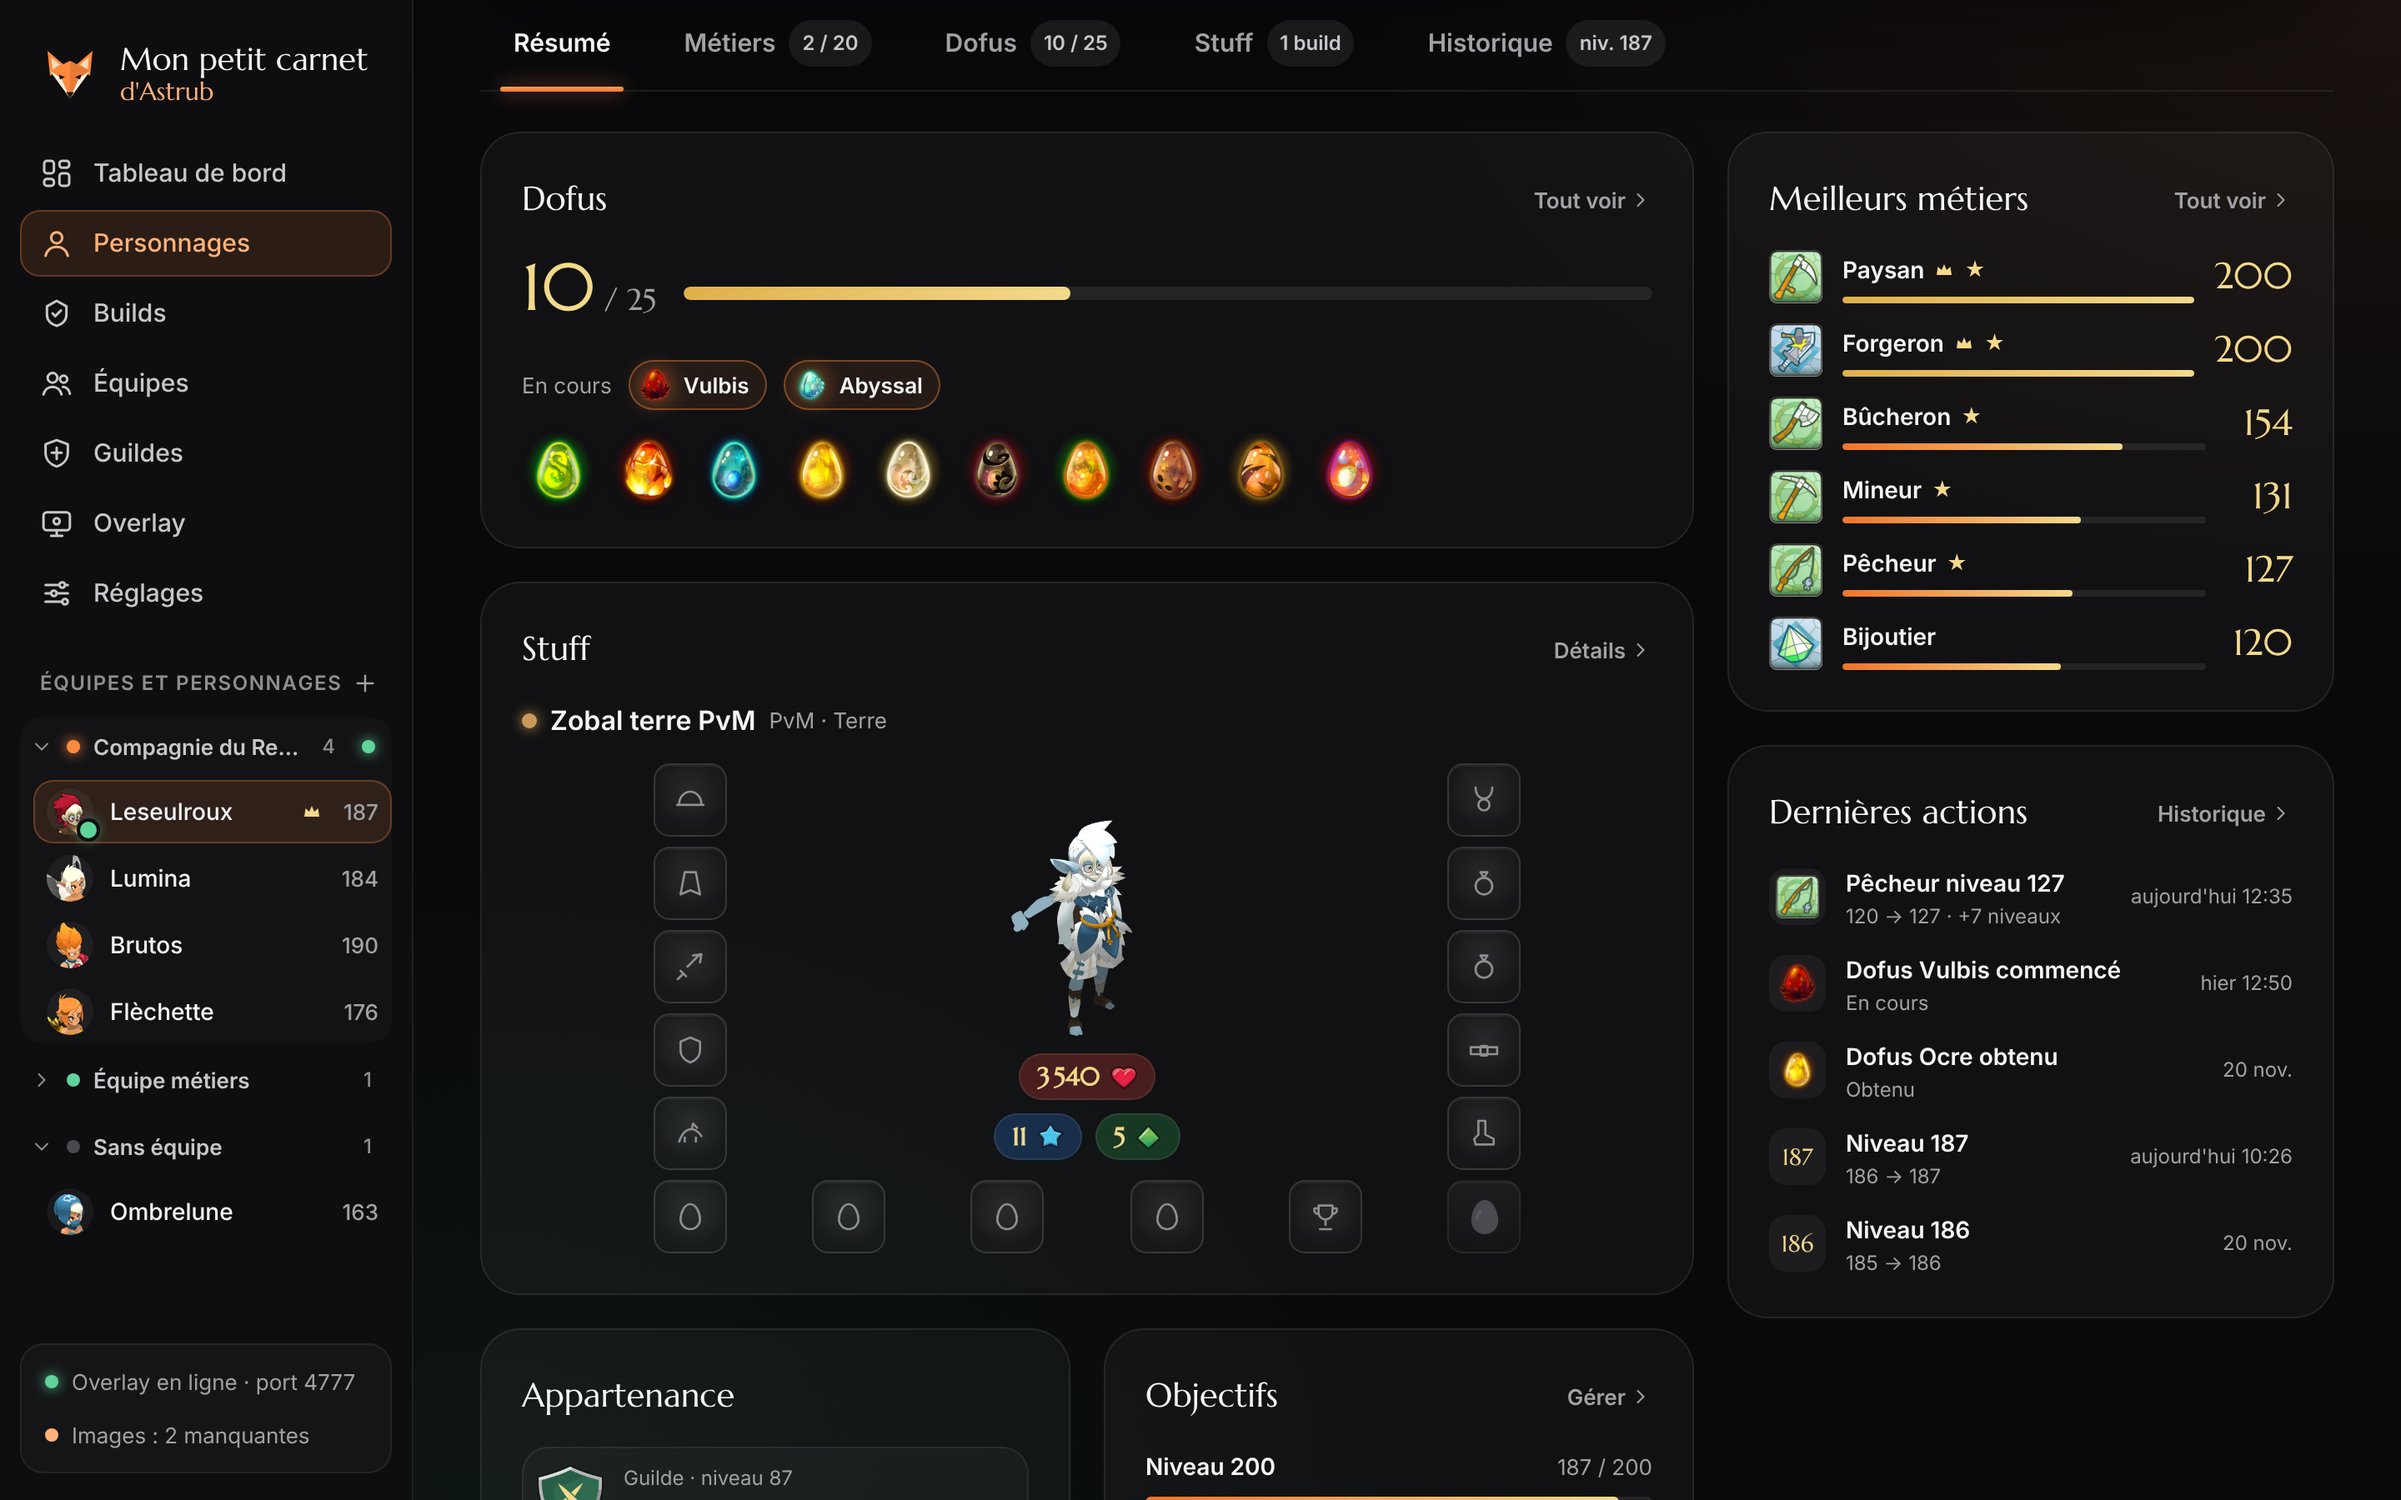
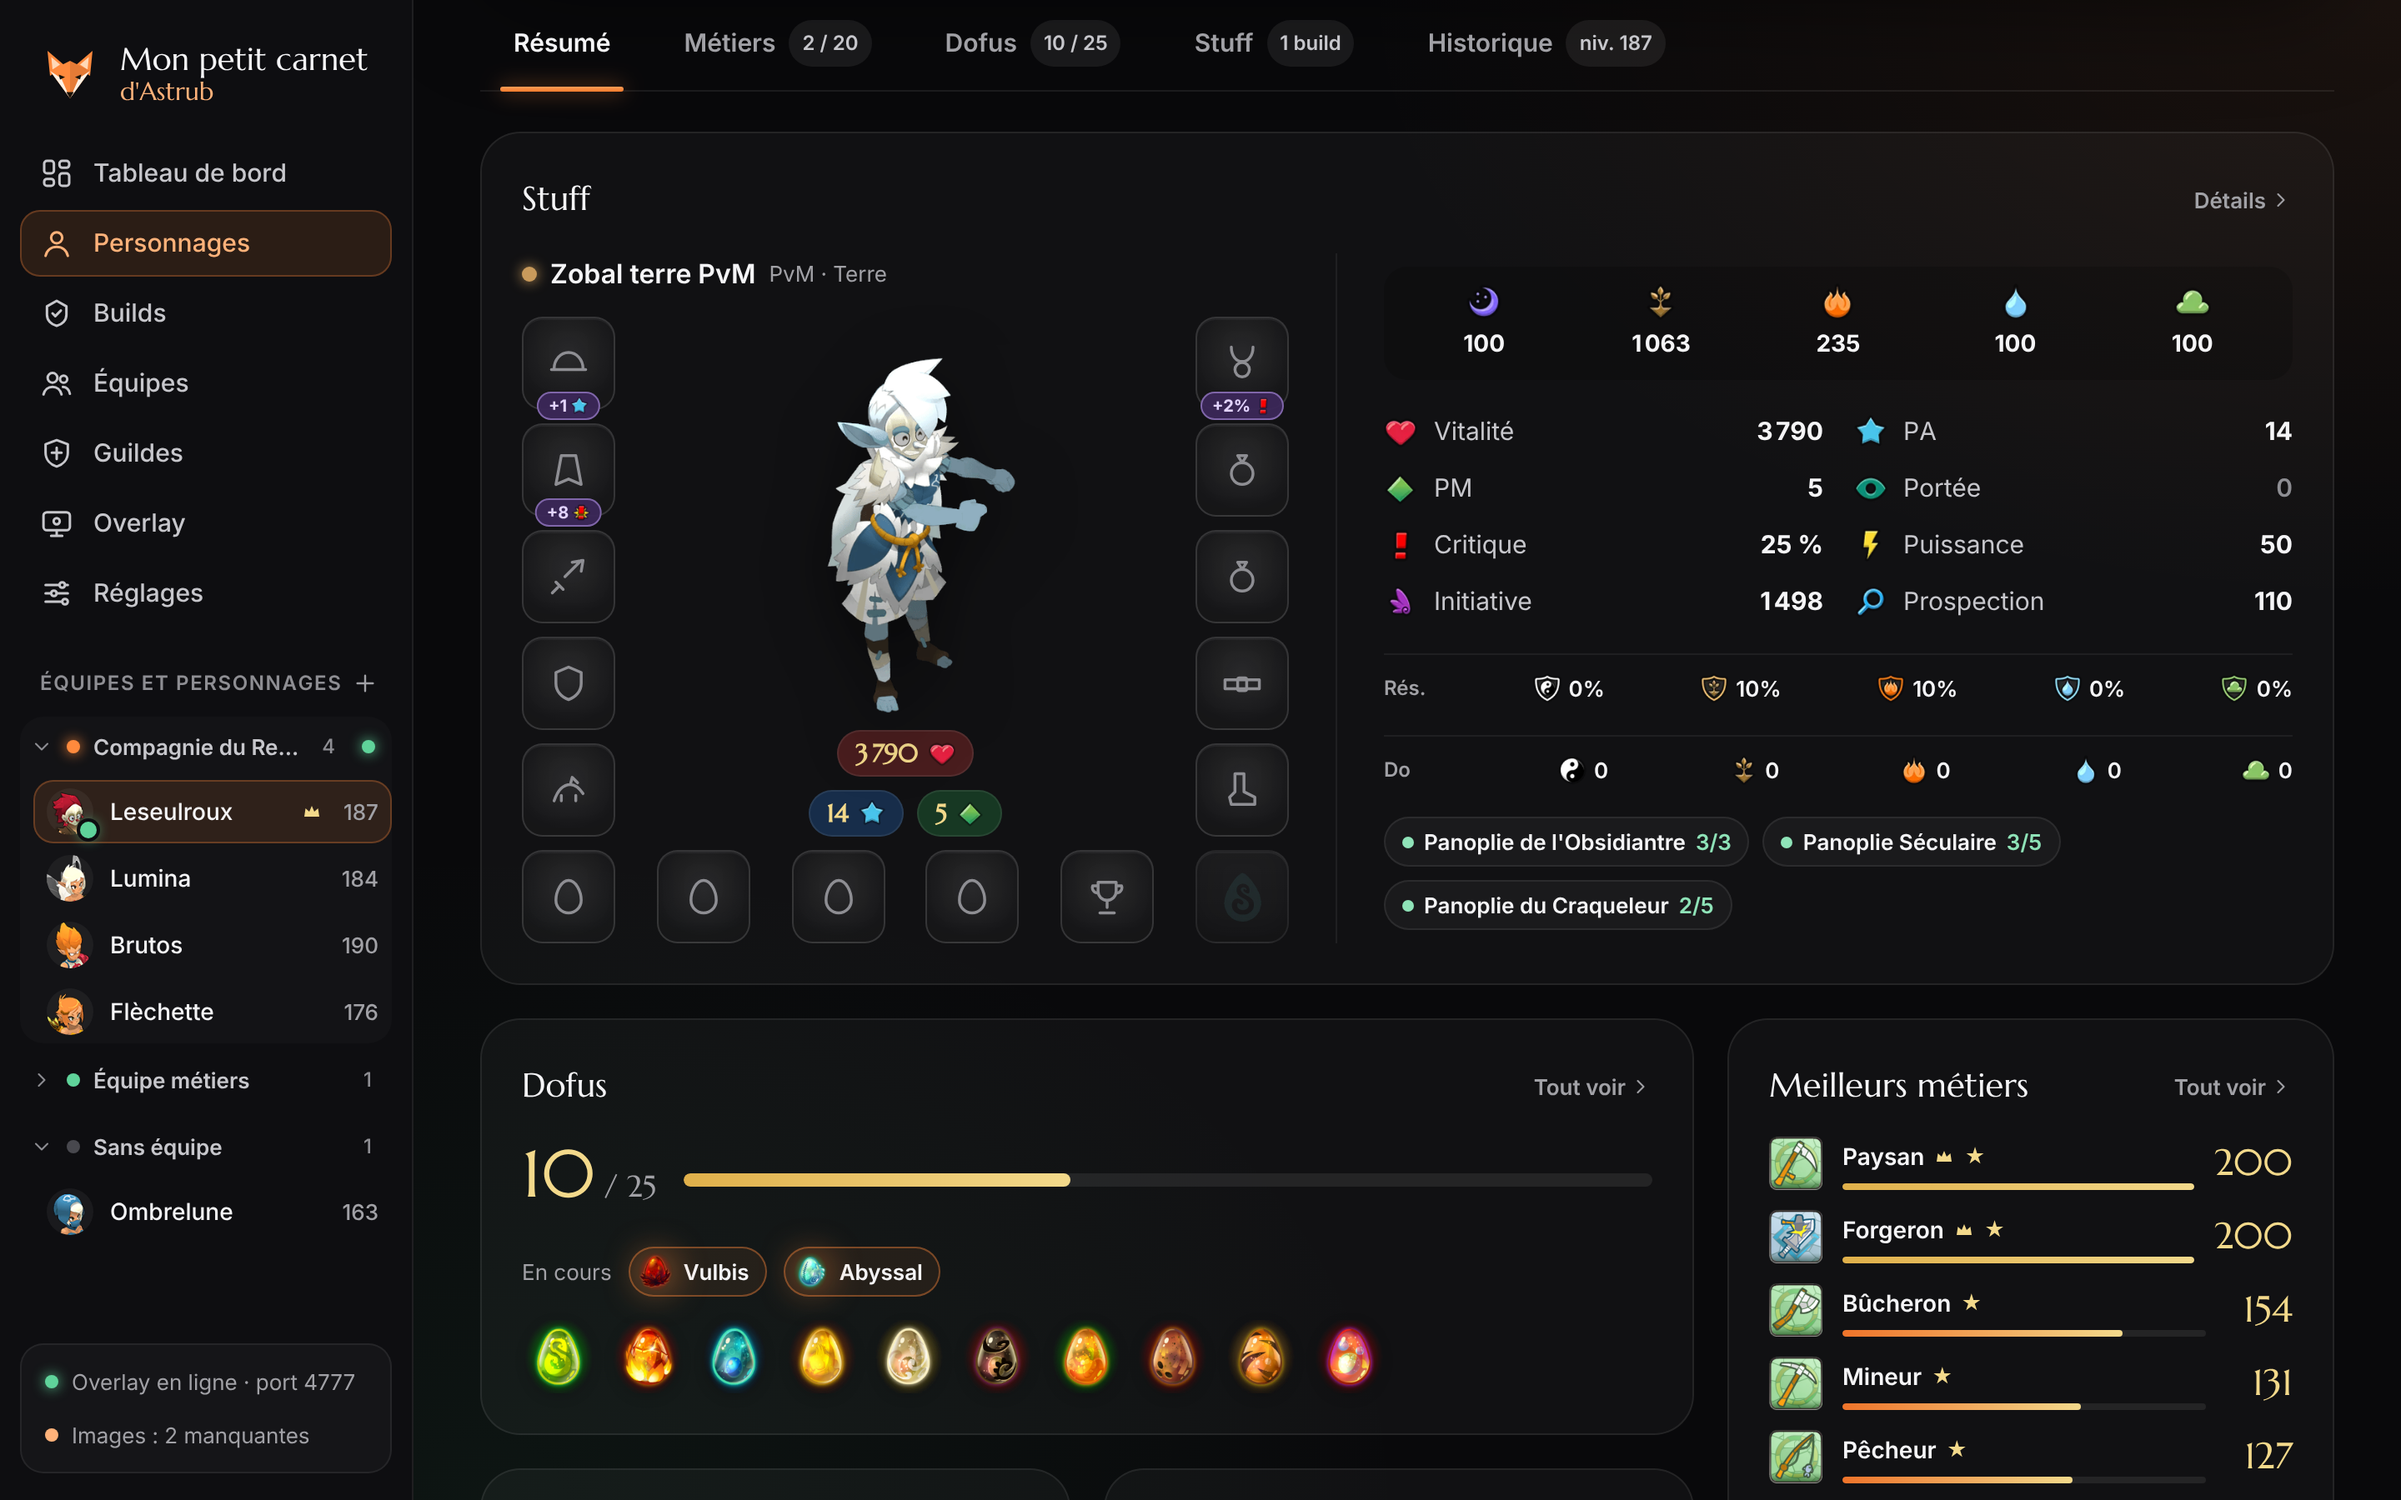
update readme and captures

diff --git a/README.md b/README.md
@@ -36,7 +36,8 @@ Mon petit carnet d'Astrub est une application Windows pensée pour les joueurs d
 | 0.5 | Installeur et mises à jour automatiques | Disponible |
 | 0.6 | Suivi d'équipe, page résumé, guilde et alliance, sons des événements | Disponible |
 | 0.7 | Builder complet : caractéristiques, stats, inventaire façon jeu, code de partage | Disponible |
-| 1.0 | Version finale | Prévu |
+| 0.8 | Bonus de panoplie, infobulles d'items, forgemagie, résumé et overlay Stuff repensés | Disponible |
+| 1.0 | Grosse passe de performance, interface plus vivante, nouvelles fonctions | Prévu |
 
 <p align="center">
   <img src="captures/fiche-resume.png" width="900" alt="Fiche d'un personnage, onglet Résumé">
